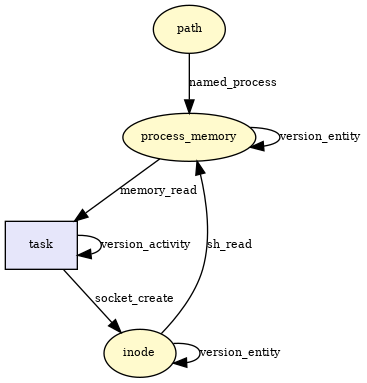
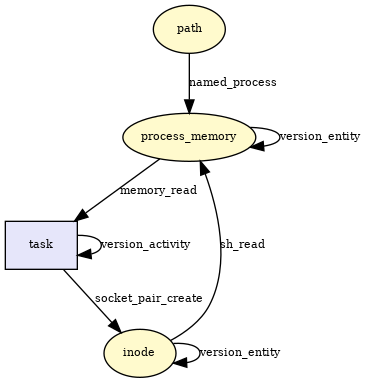
something is weird in the provenance resulting graph (please double check). Not sure where the bug is coming from.

Changed region(s): [[0.3597, 0.4021, 0.7193, 0.8329], [0.4496, 0.8329, 0.5095, 0.8903], [0.5095, 0.8329, 0.5395, 0.8616]]

diff --git a/docs/HOOKS.md b/docs/HOOKS.md
@@ -51,6 +51,7 @@ shm_shmat| ![shm_shmat graph](./img/shm_shmat.png)|
 shm_shmdt| ![shm_shmdt graph](./img/shm_shmdt.png)|
 sk_alloc_security| ![sk_alloc_security graph](./img/sk_alloc_security.png)|
 socket_post_create| ![socket_post_create graph](./img/socket_post_create.png)|
+socket_socketpair| ![socket_socketpair graph](./img/socket_socketpair.png)|
 socket_bind| ![socket_bind graph](./img/socket_bind.png)|
 socket_connect| ![socket_connect graph](./img/socket_connect.png)|
 socket_listen| ![socket_listen graph](./img/socket_listen.png)|

diff --git a/docs/RELATIONS.md b/docs/RELATIONS.md
@@ -12,6 +12,7 @@ RL_WRITE_IOCTL|write_ioctl|ioctl write|
 RL_CLONE_MEM|clone_mem|memory copy on clone|
 RL_MSG_CREATE|msg_create|create msg |
 RL_SOCKET_CREATE|socket_create|create socket|
+RL_SOCKET_PAIR_CREATE|socket_pair_create|create socket pair|
 RL_INODE_CREATE|inode_create|create inode|
 RL_SETUID|setuid|setuid|
 RL_SETGID|setpgid|setpgid|
